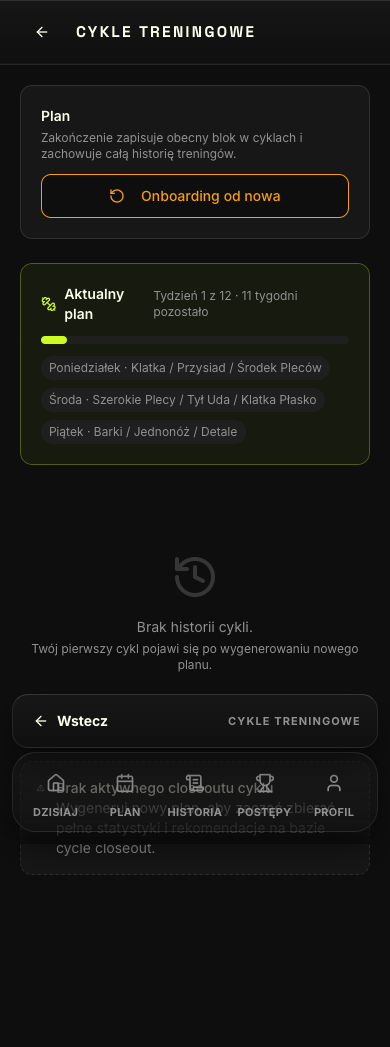
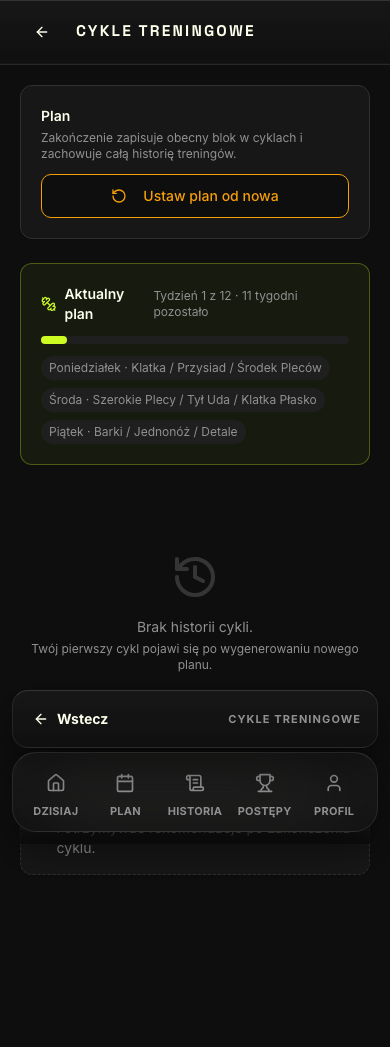
fix: h1 wraca na /exercises i /achievements, kolumna Poprz. min 28 px; specy e2e na kontrakt B139
Bramka e2e Chromium (nieuruchamiana w fali): 289/24, po powtórce 20 deterministycznych.

Produkt (2 regresje z fali B139, po 1 linii):
- AppHeader: contentOwnsPageHeading obejmował /exercises i /achievements, a te ekrany
  nie mają własnego h1 w widoku domyślnym (Biblioteka: tylko h3 nazw; Postępy: h1
  "Odznaki" wyłącznie w podwidoku). Trasy zostawały bez h1. Tytuł headera wraca jako h1.
- ExerciseCard: siatka 24px/minmax(0,1fr)/minmax(56px,1.1fr)/minmax(44px,1fr)/44/44
  ściskała kolumnę Poprz. do 24 px przy 320 px i 20 px przy 360 px (przed falą ok. 40).
  minmax(28px,1fr) spełnia spec 320 px z tej fali (29 px / 31 px / 47 px, bez overflow,
  kg 56 px). Test charakteryzacyjny dopasowany do szablonu.

Specy przepięte na świadome zmiany: tytuł powłoki Dashboardu jako <p> (jeden h1 =
powitanie), h2 w karcie ćwiczenia i bibliotece planów, copy "Domknięcie i progres
cyklu" / "Brak aktywnego podsumowania cyklu" / "Otwórz centrum synchronizacji", chipy
Historii za przyciskiem Filtry. Nowy niezmiennik w critical/full-app/heading-consistency:
dokładnie jeden h1 na trasie. Zrzuty release-audit odświeżone przez bieg e2e.

Pełny bieg po poprawkach: 306/7, 6/7 zielone w izolacji (obciążenie); flaki do naprawy
u właściciela testów: warmup-prompt-preference:60 (1/3, wyścig clearWorkoutDraftDb z
flushem), exercise-card-v3:126 (2/3), warmup-persistence:117 (tylko pod obciążeniem).

diff --git a/e2e/critical.spec.ts b/e2e/critical.spec.ts
@@ -10,7 +10,8 @@ test.describe('Critical Routing and Shell', () => {
     await page.setViewportSize({ width: 1280, height: 900 });
     await navigateAndWait(page, '/');
     await expectPageRendered(page);
-    await expect(page.getByRole('heading', { name: /Dzisiaj|Today/ })).toBeVisible();
+    await expect(page.locator('header').getByText(/^(Dzisiaj|Today)$/)).toBeVisible();
+    await expect(page.getByRole('heading', { level: 1 })).toHaveCount(1);
     await expect(
       page.getByRole('navigation', { name: 'Nawigacja główna' }).getByRole('link', { name: 'Dzisiaj' }),
     ).toBeVisible();
@@ -50,7 +51,7 @@ test.describe('Critical Routing and Shell', () => {
     await expectPageRendered(page);
     await expect(page.locator('header').getByRole('heading', { name: 'Cykle treningowe' })).toBeVisible();
     await expect(page.getByText('Aktualny plan')).toBeVisible();
-    await expect(page.getByText(/Closeout i progres cyklu|Brak aktywnego closeoutu cyklu/)).toBeVisible();
+    await expect(page.getByText(/Domknięcie i progres cyklu|Brak aktywnego podsumowania cyklu/)).toBeVisible();
   });
 
   test('admin route either shows admin shell or redirects non-admin users', async ({ page }) => {
@@ -63,7 +64,7 @@ test.describe('Critical Routing and Shell', () => {
       await expect(page.getByText('API eksportu')).toBeVisible();
       await expect(page.getByRole('button', { name: 'Generuj klucz' })).toBeVisible();
     } else {
-      await expect(page.getByRole('heading', { name: /Dzisiaj|Today/ })).toBeVisible();
+      await expect(page.locator('header').getByText(/^(Dzisiaj|Today)$/)).toBeVisible();
     }
   });
 });
@@ -115,7 +116,10 @@ test.describe('Critical Interactions', () => {
 
     await navigateAndWait(page, '/history?list=all');
     await expectPageRendered(page);
-    await expect(page.getByRole('button', { name: /^wszystkie$/i })).toBeVisible();
+    // B139-7: chipy statusu są schowane za przyciskiem Filtry, żeby lista sesji
+    // zaczynała się w górnej połowie ekranu; po otwarciu panelu chip jest widoczny.
     await expect(page.getByRole('button', { name: 'Filtry' })).toBeVisible();
+    await page.getByRole('button', { name: 'Filtry' }).click();
+    await expect(page.getByRole('button', { name: /^wszystkie$/i })).toBeVisible();
   });
 });

diff --git a/e2e/edge-cases.spec.ts b/e2e/edge-cases.spec.ts
@@ -72,7 +72,7 @@ test.describe('Edge Cases: LocalStorage', () => {
     });
     await page.reload();
     await page.waitForLoadState('domcontentloaded');
-    await expect(page.getByRole('heading', { name: /Dzisiaj|Today/ })).toBeVisible();
+    await expect(page.locator('header').getByText(/^(Dzisiaj|Today)$/)).toBeVisible();
     const hasError = await page.locator('text=Coś poszło nie tak').count();
     expect(hasError).toBe(0);
     await page.evaluate(() => localStorage.removeItem('fittracker_workout_draft'));
@@ -113,7 +113,7 @@ test.describe('Edge Cases: Multiple Rapid Actions', () => {
       await page.goto(`/#${route}`);
       await page.waitForLoadState('domcontentloaded');
     }
-    await expect(page.getByRole('heading', { name: /Dzisiaj|Today/ })).toBeVisible();
+    await expect(page.locator('header').getByText(/^(Dzisiaj|Today)$/)).toBeVisible();
   });
 
   test('double-clicking buttons does not cause issues', async ({ page }) => {
@@ -135,7 +135,7 @@ test.describe('Edge Cases: Viewport Extremes', () => {
   test('very narrow viewport (320px) does not crash', async ({ page }) => {
     await page.setViewportSize({ width: 320, height: 568 }); // iPhone 5
     await navigateAndWait(page, '/');
-    await expect(page.getByRole('heading', { name: /Dzisiaj|Today/ })).toBeVisible();
+    await expect(page.locator('header').getByText(/^(Dzisiaj|Today)$/)).toBeVisible();
     const hasError = await page.locator('text=Coś poszło nie tak').count();
     expect(hasError).toBe(0);
   });
@@ -143,7 +143,7 @@ test.describe('Edge Cases: Viewport Extremes', () => {
   test('very wide viewport (2560px) does not break layout', async ({ page }) => {
     await page.setViewportSize({ width: 2560, height: 1440 }); // QHD
     await navigateAndWait(page, '/');
-    await expect(page.getByRole('heading', { name: /Dzisiaj|Today/ })).toBeVisible();
+    await expect(page.locator('header').getByText(/^(Dzisiaj|Today)$/)).toBeVisible();
     const hasError = await page.locator('text=Coś poszło nie tak').count();
     expect(hasError).toBe(0);
   });

diff --git a/e2e/exercise-card-v3.spec.ts b/e2e/exercise-card-v3.spec.ts
@@ -26,7 +26,7 @@ test.describe('ExerciseCard — Kinetic Precision', () => {
     const firstCard = page.locator('.exercise-card').first();
 
     // Exercise name visible
-    const exerciseName = firstCard.locator('h3');
+    const exerciseName = firstCard.locator('h2');
     await expect(exerciseName).toBeVisible();
     const nameText = await exerciseName.textContent();
     expect(nameText?.length).toBeGreaterThan(0);
@@ -106,7 +106,7 @@ test.describe('ExerciseCard — Kinetic Precision', () => {
     await expectPageRendered(page);
 
     const firstCard = page.locator('.exercise-card').first();
-    const exerciseName = (await firstCard.locator('h3').textContent())?.trim();
+    const exerciseName = (await firstCard.locator('h2').textContent())?.trim();
     expect(exerciseName?.length).toBeGreaterThan(0);
 
     const labels = await firstCard.locator('input.exercise-card-input').evaluateAll((inputs) =>
@@ -404,7 +404,7 @@ test.describe('ExerciseCard — Kinetic Precision', () => {
     // All cards should have their exercise name visible
     for (let i = 0; i < Math.min(count, 3); i++) {
       const card = cards.nth(i);
-      await expect(card.locator('h3')).toBeVisible();
+      await expect(card.locator('h2')).toBeVisible();
     }
   });
 
@@ -423,7 +423,7 @@ test.describe('ExerciseCard — Kinetic Precision', () => {
       expect(count).toBeGreaterThanOrEqual(1);
 
       // Each card has h3 with exercise name
-      await expect(cards.first().locator('h3')).toBeVisible();
+      await expect(cards.first().locator('h2')).toBeVisible();
 
       // Each card has inputs
       const inputs = cards.first().locator('input.exercise-card-input');

diff --git a/e2e/batch-save.spec.ts b/e2e/batch-save.spec.ts
@@ -322,7 +322,7 @@ test.describe('Batch Save Workflow', () => {
     await expect(indicator).toBeVisible();
     await expect(indicator).toHaveAttribute('aria-label', 'Czeka na zapis w chmurze, zapisze się sam');
     await expect(page.getByText('Masz trening rozpoczęty offline')).toHaveCount(0);
-    await expect(page.getByRole('button', { name: 'Otwórz Sync Center' })).toHaveCount(0);
+    await expect(page.getByRole('button', { name: 'Otwórz centrum synchronizacji' })).toHaveCount(0);
   });
 
   test('permanent sync error keeps the Sync Center card with an exit on the dashboard', async ({ page }) => {
@@ -369,7 +369,7 @@ test.describe('Batch Save Workflow', () => {
     await page.reload();
     await page.waitForLoadState('domcontentloaded');
 
-    await expect(page.getByRole('button', { name: 'Otwórz Sync Center' })).toBeVisible();
+    await expect(page.getByRole('button', { name: 'Otwórz centrum synchronizacji' })).toBeVisible();
     await expect(page.getByTestId('cloud-pending-indicator')).toHaveCount(0);
   });
 
@@ -412,7 +412,7 @@ test.describe('Batch Save Workflow', () => {
 
     await page.evaluate(() => { window.location.hash = '#/'; });
     await expect(page.getByTestId('cloud-pending-indicator')).toBeVisible();
-    await expect(page.getByRole('button', { name: 'Otwórz Sync Center' })).toHaveCount(0);
+    await expect(page.getByRole('button', { name: 'Otwórz centrum synchronizacji' })).toHaveCount(0);
 
     // Sieć wraca: bez klikania trening ląduje w chmurze (mock), draft znika.
     await page.context().setOffline(false);

diff --git a/src/test/exercise-card-layout.test.tsx b/src/test/exercise-card-layout.test.tsx
@@ -401,14 +401,14 @@ describe('ExerciseCard — układ karty (charakteryzacja przed X17A)', () => {
       expect(weightInput.className).toContain('min-w-0');
       expect(repsInput.className).toContain('px-1');
 
-      // Na wąskim iPhonie PREV może się skurczyć, ale KG zachowuje co najmniej 56 px,
+      // Na wąskim iPhonie PREV może się skurczyć (nie poniżej 28 px, e2e 320 px), ale KG zachowuje co najmniej 56 px,
       // więc 31.5/122.5 nie nachodzi na sąsiednie kolumny. Bazowy padding/gap jest
       // ciaśniejszy do 359 px, aby POPRZ. nie zapadało się do zera na ekranie 320 px.
       expect(within(card).getByTestId('set-table').className).toContain('px-2');
       expect(within(card).getByTestId('set-grid-header').className).toContain('gap-1');
       expect(within(card).getByTestId('set-grid-header').className).toContain('phone:gap-2');
       const grids = Array.from(card.querySelectorAll('div.grid'));
-      const withTemplate = grids.filter((g) => g.className.includes('grid-cols-[24px_minmax(0,1fr)_minmax(56px,1.1fr)_minmax(44px,1fr)_44px_44px]'));
+      const withTemplate = grids.filter((g) => g.className.includes('grid-cols-[24px_minmax(28px,1fr)_minmax(56px,1.1fr)_minmax(44px,1fr)_44px_44px]'));
       // Nagłówek + wiersz serii — minimum 2 gridy z nowym szablonem.
       expect(withTemplate.length).toBeGreaterThanOrEqual(2);
     });

diff --git a/e2e/replan.spec.ts b/e2e/replan.spec.ts
@@ -107,7 +107,7 @@ test.describe('Replan', () => {
     ];
     await page.getByRole('button', { name: /Biblioteka planów/ }).click();
     await expect(page.getByTestId('browse-objective-chips')).toBeVisible();
-    const headings = page.getByRole('heading', { level: 3 });
+    const headings = page.getByRole('heading', { level: 2 });
     const count = await headings.count();
     let pickedName = '';
     for (let i = 0; i < count; i += 1) {
@@ -115,7 +115,7 @@ test.describe('Replan', () => {
       if (!shown.includes(name)) { pickedName = name; break; }
     }
     expect(pickedName).not.toBe('');
-    await page.getByRole('heading', { level: 3, name: pickedName }).click();
+    await page.getByRole('heading', { level: 2, name: pickedName }).click();
 
     const second = page.getByTestId('plan-choice-alternative');
     await expect(second.getByTestId('plan-choice-badge')).toHaveText('Wybrany');

diff --git a/src/components/ExerciseCard.tsx b/src/components/ExerciseCard.tsx
@@ -744,7 +744,7 @@ const ExerciseCardInner = ({
         ? 'grid-cols-[26px_minmax(0,0.9fr)_1.1fr_1fr_44px_44px]'
         : isBodyweight
           ? 'grid-cols-[26px_minmax(0,1fr)_1fr_44px_44px]'
-          : 'grid-cols-[24px_minmax(0,1fr)_minmax(56px,1.1fr)_minmax(44px,1fr)_44px_44px]';
+          : 'grid-cols-[24px_minmax(28px,1fr)_minmax(56px,1.1fr)_minmax(44px,1fr)_44px_44px]';
 
   // Hint POPRZ. dla nowych typów (Z105): czas dla duration, powt.×(-asysta) dla assisted.
   const getTrackedPreviousHint = (workingIndex: number): string | null => {

diff --git a/src/components/AppHeader.tsx b/src/components/AppHeader.tsx
@@ -30,9 +30,7 @@ export const AppHeader = ({ title, onBack }: AppHeaderProps) => {
   const isDashboard = pathname === '/';
   const contentOwnsPageHeading = title === 'Strength Save'
     || isDashboard
-    || pathname === '/achievements'
     || pathname === '/plan/edit'
-    || pathname === '/exercises'
     || pathname.startsWith('/admin');
   const showBell = APP_CHROME_ROOT_PATHS.has(pathname);
   const showWorkoutCount = APP_CHROME_ROOT_PATHS.has(pathname);

diff --git a/e2e/auth-registration.spec.ts b/e2e/auth-registration.spec.ts
@@ -55,7 +55,7 @@ test.describe('Auth and registration flows', () => {
     await navigateAndWait(page, '/login');
 
     await expect(page).toHaveURL(/#\/$/);
-    await expect(page.getByRole('heading', { name: /Dzisiaj|Today/ })).toBeVisible();
+    await expect(page.locator('header').getByText(/^(Dzisiaj|Today)$/)).toBeVisible();
   });
 
   test('pending verification user sees email verification gate', async ({ page }) => {

diff --git a/e2e/strava-visibility.spec.ts b/e2e/strava-visibility.spec.ts
@@ -19,7 +19,7 @@ test.describe('Strava visibility (feature flag)', () => {
     await expect(page.getByText('Strava')).toHaveCount(0);
 
     await navigateAndWait(page, '/');
-    await expect(page.getByRole('heading', { name: /Dzisiaj|Today/ })).toBeVisible();
+    await expect(page.locator('header').getByText(/^(Dzisiaj|Today)$/)).toBeVisible();
     await expect(page.getByText('Strava')).toHaveCount(0);
   });
 

diff --git a/e2e/heading-consistency.spec.ts b/e2e/heading-consistency.spec.ts
@@ -22,6 +22,7 @@ test.describe('jeden tytuł ekranu w mobilnej powłoce', () => {
         name: screen.shell,
         exact: true,
       })).toBeVisible();
+      await expect(page.getByRole('heading', { level: 1 })).toHaveCount(1);
       await expect(page.getByRole('main').getByRole('heading', {
         name: screen.redundant,
         exact: true,

diff --git a/e2e/full-app.spec.ts b/e2e/full-app.spec.ts
@@ -379,6 +379,7 @@ test.describe('Achievements', () => {
     await navigateAndWait(page, '/achievements');
     await expectPageRendered(page);
     await expect(page.locator('header').getByRole('heading', { name: 'Postępy' })).toBeVisible();
+    await expect(page.getByRole('heading', { level: 1 })).toHaveCount(1);
   });
 });
 
